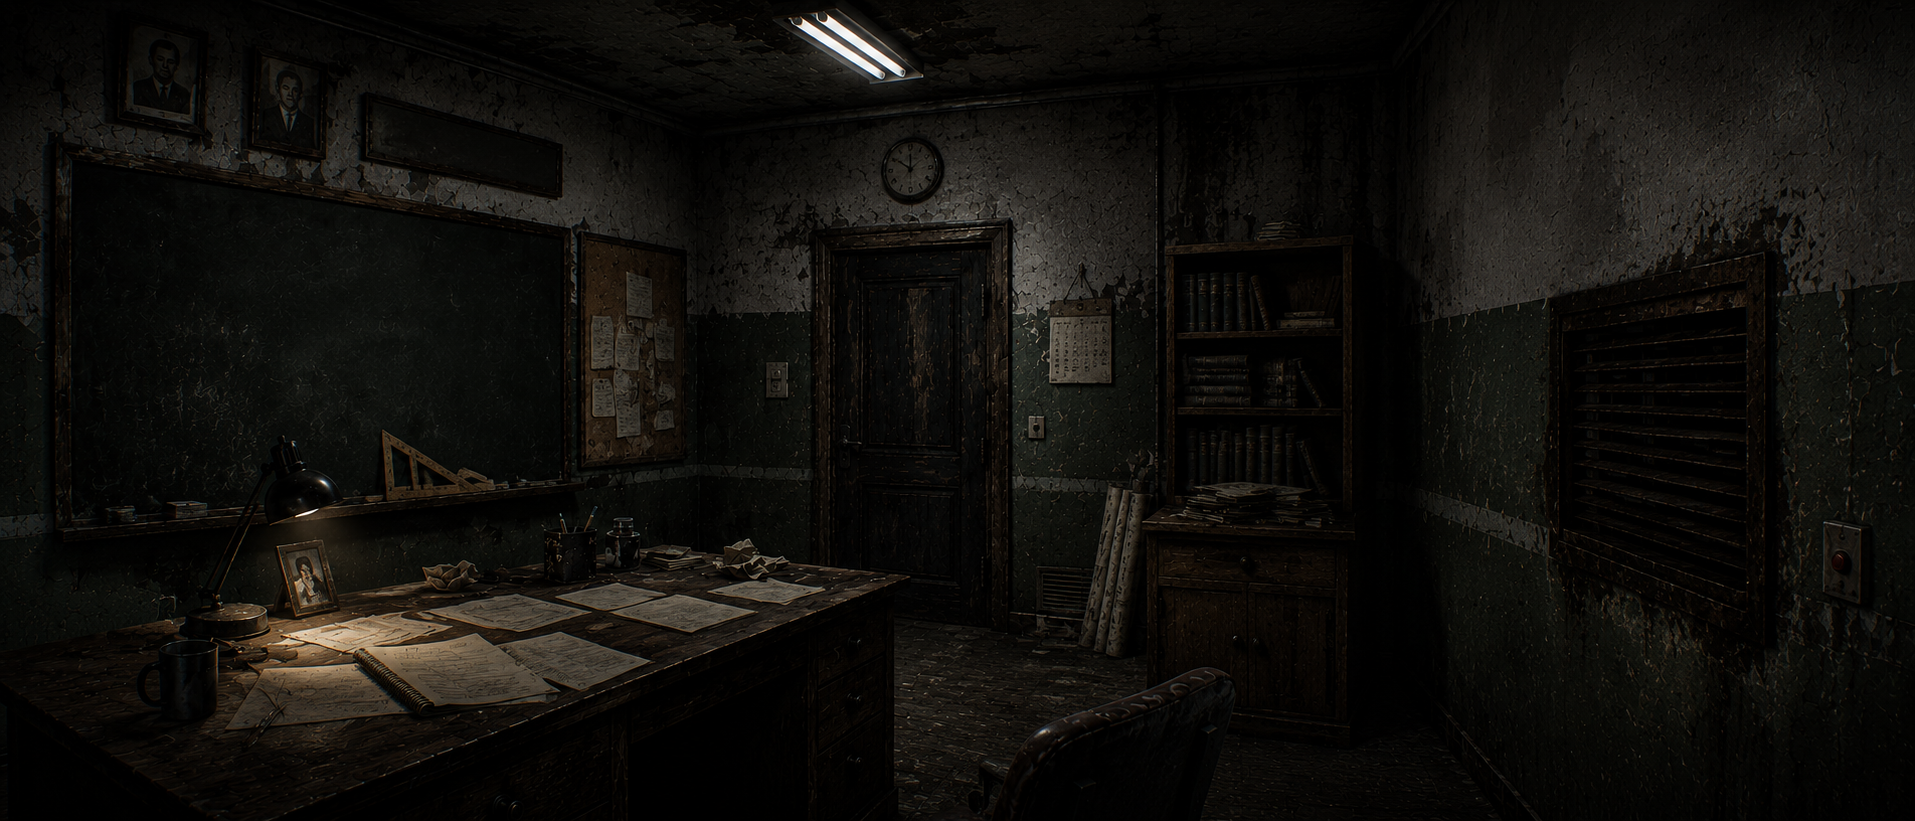
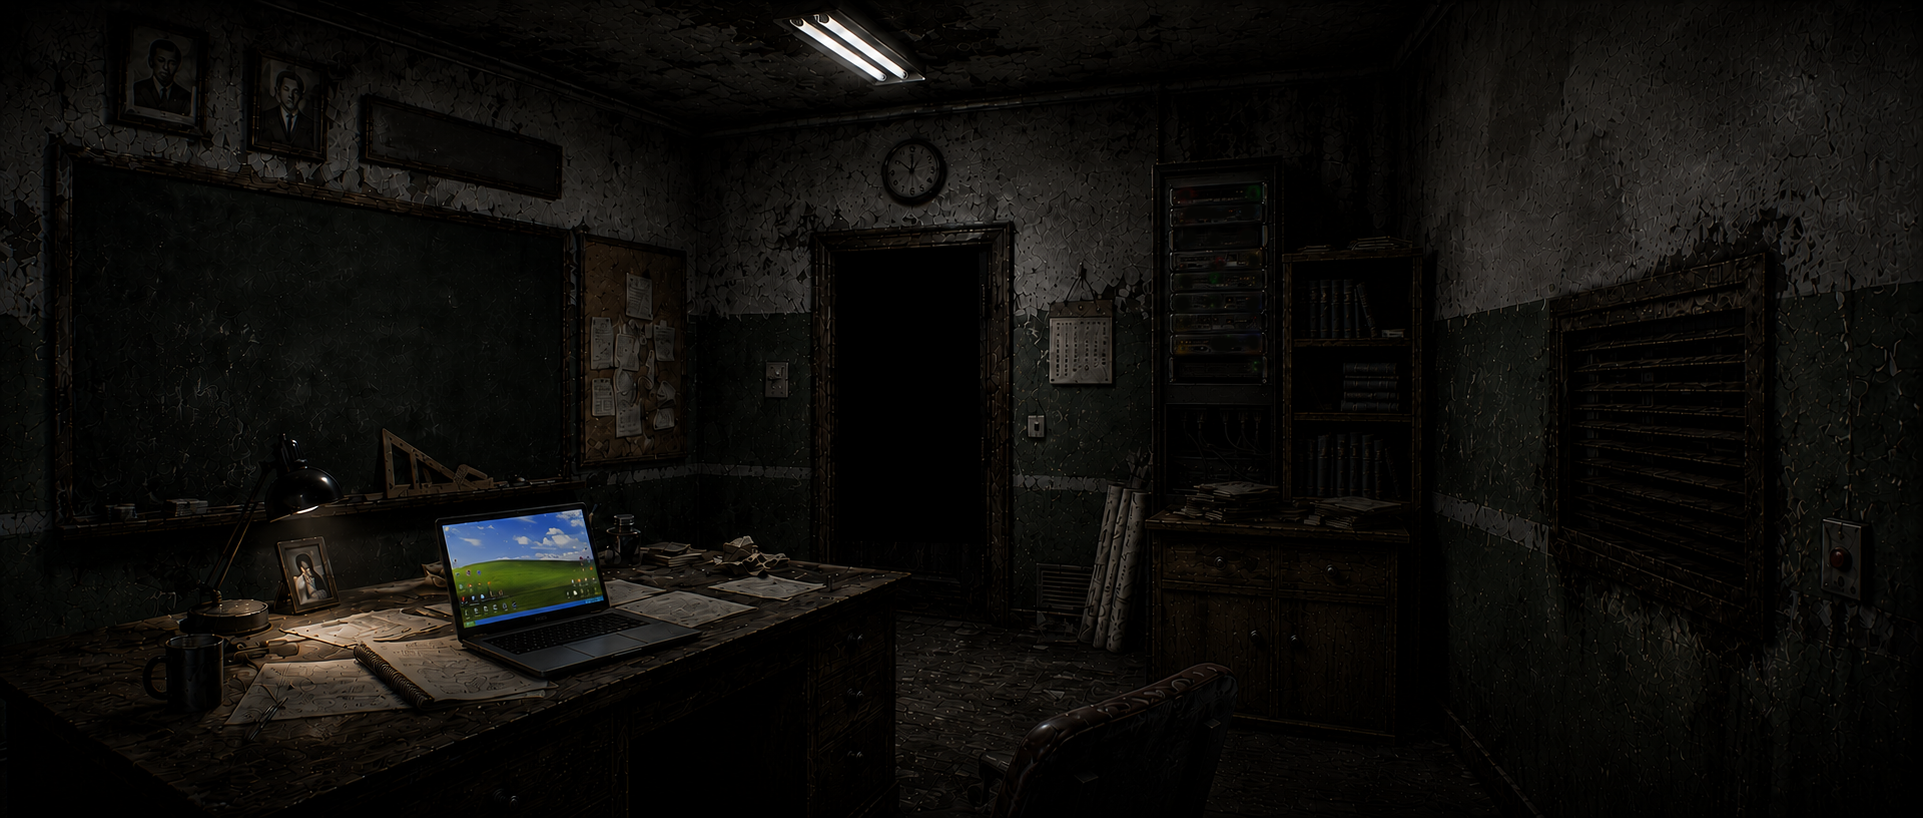
feat: add tablet interface and server hacking mechanic

diff --git a/gameplay_view.py b/gameplay_view.py
@@ -1,25 +1,97 @@
 import pygame
+import random
+
+def _normalize_brightness(images, target=15):
+    for img in images:
+        w, h = img.get_size()
+        total = 0
+        count = 0
+        for y in range(0, h, 4):
+            for x in range(0, w, 4):
+                r, g, b, _ = img.get_at((x, y))
+                total += int(0.299 * r + 0.587 * g + 0.114 * b)
+                count += 1
+        avg = total / count if count else target
+        if avg > 0:
+            factor = target / avg
+            for y in range(h):
+                for x in range(w):
+                    r, g, b, a = img.get_at((x, y))
+                    img.set_at((x, y), (
+                        min(255, int(r * factor)),
+                        min(255, int(g * factor)),
+                        min(255, int(b * factor)),
+                        a
+                    ))
 
 class GameView:
     def __init__(self, screen):
         self.screen = screen
-        raw = pygame.image.load("assets/office/office_main.png").convert()
         screen_w, screen_h = screen.get_size()
-        scale = screen_h / raw.get_height()
-        new_w = int(raw.get_width() * scale)
-        self.bg = pygame.transform.smoothscale(raw, (new_w, screen_h))
-        self.max_offset = max(0, new_w - screen_w)
+
+        raw_off = pygame.image.load("assets/office/server_is_off.png").convert()
+        scale = screen_h / raw_off.get_height()
+        target_size = (int(raw_off.get_width() * scale), screen_h)
+
+        self.bg_off = pygame.transform.smoothscale(raw_off, target_size)
+
+        self.bg_blinks = {}
+        for name, key in [("server_turning_on_red.png", "red"), ("server_turning_on_green.png", "green")]:
+            raw = pygame.image.load(f"assets/office/{name}").convert()
+            self.bg_blinks[key] = pygame.transform.smoothscale(raw, target_size)
+
+        self.bg_frames = []
+        for name in ["office1.png", "office2.png"]:
+            raw = pygame.image.load(f"assets/office/{name}").convert()
+            self.bg_frames.append(pygame.transform.smoothscale(raw, target_size))
+        _normalize_brightness([self.bg_off] + list(self.bg_blinks.values()) + self.bg_frames)
+
+        self.max_offset = max(0, target_size[0] - screen_w)
         self.screen_w = screen_w
         self.font = pygame.font.SysFont("OCR-A", 30)
+        self.switch_timer = random.randint(60, 180)
+        self.current_idx = 0
+        self.scale = scale
+        self.server_hotspot = pygame.Rect(1151, 163, 131, 244)
+
+        # Планшет — 10 отдельных картинок без фона
+        self.cam_frames = []
+        for i in range(1, 11):
+            img = pygame.image.load(f"assets/office/tablet/tablet-{i}.png").convert_alpha()
+            self.cam_frames.append(pygame.transform.smoothscale(img, (screen_w, screen_h)))
+
+    def is_server_clicked(self, mouse_pos, offset):
+        img_x = (mouse_pos[0] + offset) / self.scale
+        img_y = mouse_pos[1] / self.scale
+        return self.server_hotspot.collidepoint(img_x, img_y)
 
     def draw(self, model):
         offset = int((model.current_look + 1) / 2 * self.max_offset)
-        self.screen.blit(self.bg, (-offset, 0))
 
-        if model.door_left_closed:
-            pygame.draw.rect(self.screen, (0, 0, 0), (0, 0, 300, 720))
-        if model.door_right_closed:
-            pygame.draw.rect(self.screen, (0, 0, 0), (980, 0, 300, 720))
+        if model.server_state == "OFF":
+            self.screen.blit(self.bg_off, (-offset, 0))
+        elif model.server_state == "TURNING_ON":
+            img = self.bg_blinks.get(model.server_blink, self.bg_off)
+            self.screen.blit(img, (-offset, 0))
+        elif model.server_state == "TURNING_OFF":
+            self.screen.blit(self.bg_off, (-offset, 0))
+        elif model.server_state == "ON":
+            self.switch_timer -= 1
+            if self.switch_timer <= 0:
+                self.current_idx = 1 - self.current_idx
+                self.switch_timer = random.randint(60, 180)
+            self.screen.blit(self.bg_frames[self.current_idx], (-offset, 0))
 
-        status = f"Power: {int(model.power)}% | Time: {model.hour} AM"
-        self.screen.blit(self.font.render(status, True, (255, 255, 255)), (20, 20))
+        if model.server_state != "OFF":
+            if model.door_left_closed:
+                pygame.draw.rect(self.screen, (0, 0, 0), (0, 0, 300, 720))
+            if model.door_right_closed:
+                pygame.draw.rect(self.screen, (0, 0, 0), (980, 0, 300, 720))
+
+        if model.tablet_open or model.tablet_animating:
+            idx = model.tablet_anim_frame if model.tablet_animating else model.camera_idx
+            self.screen.blit(self.cam_frames[idx], (0, 0))
+
+        if model.server_state != "OFF":
+            status = f"Power: {int(model.power)}% | Time: {model.hour} AM"
+            self.screen.blit(self.font.render(status, True, (255, 255, 255)), (20, 20))

diff --git a/gameplay_presenter.py b/gameplay_presenter.py
@@ -4,6 +4,25 @@ class GamePresenter:
     def __init__(self, model, view):
         self.model = model
         self.view = view
+        self._transition_frames = 0
+        self._on_phase = 0
+        self._on_phase_frames = 0
+        self._anim_timer = 0
+        self._anim_dir = 1
+        try:
+            self.snd_on = pygame.mixer.Sound("sounds/night1/server_turning_on.mp3")
+            self.snd_work = pygame.mixer.Sound("sounds/night1/server_is_working.mp3")
+            self.snd_off = pygame.mixer.Sound("sounds/night1/server_turning_off.mp3")
+            self._off_frames = int(self.snd_off.get_length() * 60) + 1
+        except pygame.error:
+            print("Серверные звуки не найдены")
+            self.snd_on = self.snd_work = self.snd_off = None
+            self._off_frames = 60
+        try:
+            self.snd_tablet = pygame.mixer.Sound("sounds/blip3.mp3")
+        except pygame.error:
+            print("sounds/blip3.mp3 не найден")
+            self.snd_tablet = None
 
     def handle_event(self, event):
         if event.type == pygame.KEYDOWN:
@@ -13,8 +32,83 @@ class GamePresenter:
                 self.model.door_right_closed = not self.model.door_right_closed
             if event.key == pygame.K_ESCAPE:
                 pygame.mouse.set_visible(not pygame.mouse.get_visible())
+            if event.key == pygame.K_TAB:
+                if not self.model.tablet_open:
+                    self.model.tablet_open = True
+                    self.model.tablet_animating = True
+                    self._anim_dir = 1
+                    self.model.tablet_anim_frame = 0
+                    self._anim_timer = 2
+                    if self.snd_tablet:
+                        self.snd_tablet.play()
+                elif not self.model.tablet_animating:
+                    self.model.tablet_animating = True
+                    self._anim_dir = -1
+                    self.model.tablet_anim_frame = 9
+                    self._anim_timer = 2
+                    if self.snd_tablet:
+                        self.snd_tablet.play()
+            if self.model.tablet_open:
+                if event.key == pygame.K_RIGHT:
+                    self.model.camera_idx = (self.model.camera_idx + 1) % 10
+                if event.key == pygame.K_LEFT:
+                    self.model.camera_idx = (self.model.camera_idx - 1) % 10
+
+        if event.type == pygame.MOUSEBUTTONDOWN and event.button == 1:
+            if self.model.server_state in ("OFF", "ON"):
+                offset = int((self.model.current_look + 1) / 2 * self.view.max_offset)
+                if self.view.is_server_clicked(event.pos, offset):
+                    if self.model.server_state == "OFF":
+                        self.model.server_state = "TURNING_ON"
+                        self.model.server_blink = "red"
+                        self._on_phase = 0
+                        self._on_phase_frames = 10
+                        if self.snd_on:
+                            self.snd_on.play()
+                    else:
+                        self.model.server_state = "TURNING_OFF"
+                        self._transition_frames = self._off_frames
+                        self.model.server_blink = None
+                        if self.snd_work:
+                            self.snd_work.stop()
+                        if self.snd_off:
+                            self.snd_off.play()
 
         if event.type == pygame.MOUSEMOTION:
             w = self.view.screen_w
             self.model.target_look = (event.pos[0] / w) * 2 - 1
             self.model.target_look = max(-1.0, min(1.0, self.model.target_look))
+
+    def update(self):
+        if self.model.server_state == "TURNING_ON":
+            self._on_phase_frames -= 1
+            if self._on_phase_frames <= 0:
+                self._on_phase += 1
+                if self._on_phase >= 8:
+                    self.model.server_state = "ON"
+                    self.model.server_blink = None
+                    if self.snd_work:
+                        self.snd_work.play(-1)
+                    return
+                blink_seq = ["red", None, "red", None, "green", None, "green", None]
+                self.model.server_blink = blink_seq[self._on_phase]
+                self._on_phase_frames = 10
+
+        elif self.model.server_state == "TURNING_OFF":
+            self._transition_frames -= 1
+            if self._transition_frames <= 0:
+                self.model.server_state = "OFF"
+
+        if self.model.tablet_animating:
+            self._anim_timer -= 1
+            if self._anim_timer <= 0:
+                self.model.tablet_anim_frame += self._anim_dir
+                if self.model.tablet_anim_frame >= 10 or self.model.tablet_anim_frame < 0:
+                    self.model.tablet_animating = False
+                    if self._anim_dir == 1:
+                        self.model.tablet_anim_frame = 9
+                        self.model.camera_idx = 9
+                    else:
+                        self.model.tablet_open = False
+                else:
+                    self._anim_timer = 2

diff --git a/gameplay_model.py b/gameplay_model.py
@@ -7,6 +7,12 @@ class GameModel:
         self.door_right_closed = False
         self.target_look = 0.0
         self.current_look = 0.0
+        self.server_state = "OFF"
+        self.server_blink = None
+        self.tablet_open = False
+        self.tablet_animating = False
+        self.tablet_anim_frame = 0
+        self.camera_idx = 0
 
     def update(self):
         self.current_look += (self.target_look - self.current_look) * 0.12

diff --git a/model.py b/model.py
@@ -17,7 +17,7 @@ class MenuModel:
             # Шанс 0.3% каждый кадр, что Алгем на мгновение исказится
             if random.random() < 0.003:
                 self.algem_state = "GLITCH"
-                self.glitch_timer = random.randint(10, 20)  
+                self.glitch_timer = random.randint(20, 40)  
         else:
             self.glitch_timer -= 1
             if self.glitch_timer <= 0:

diff --git a/main.py b/main.py
@@ -31,6 +31,7 @@ def main():
                 game_p.handle_event(e)
             
             game_m.update()
+            game_p.update()
             game_v.draw(game_m)
             pygame.display.flip()
         

diff --git a/view.py b/view.py
@@ -49,6 +49,7 @@ class MenuView:
 
         glitch_paths = [
             "assets/menu/algem_is_trying_to_escape.jpg",
+            "assets/menu/algem_is_watching_you.jpg",
             "assets/menu/empty_room.jpeg",
         ]
         glitch_raw = []